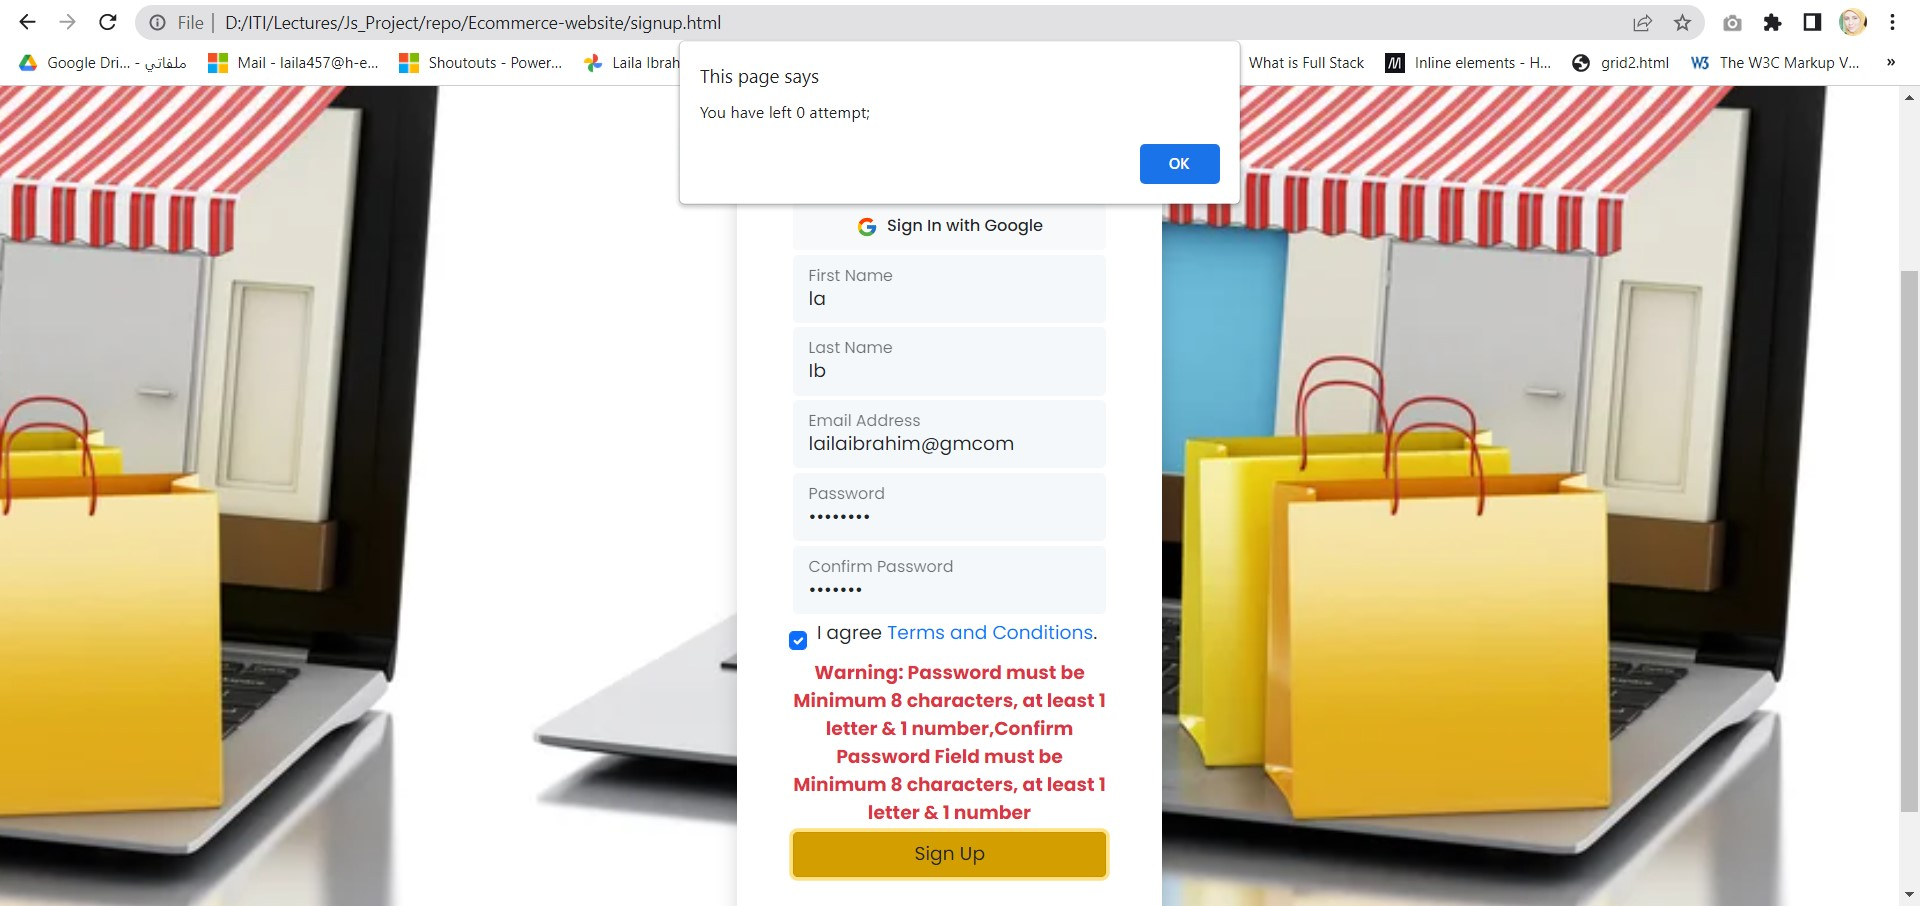
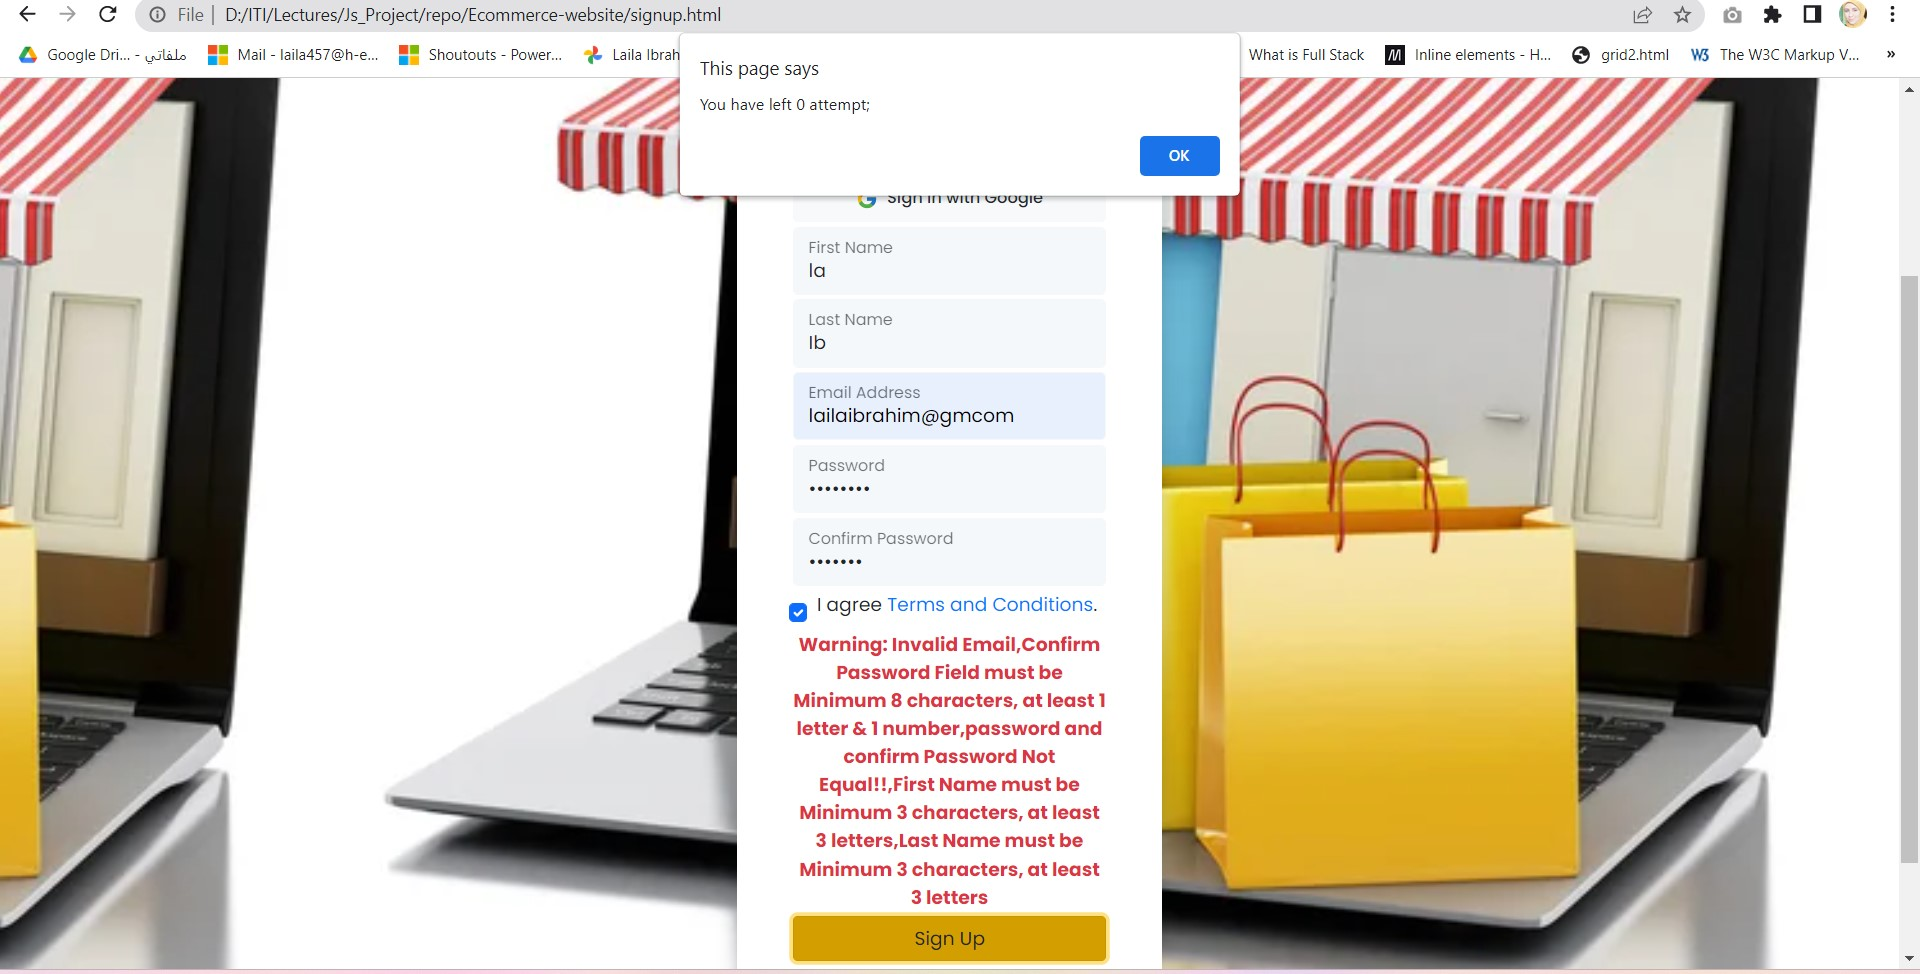
add small edits in Second Phase Of SignUp Form

diff --git a/validateForms.js b/validateForms.js
@@ -20,7 +20,7 @@ function validateLogin(e){
      Pass.disabled=true;
      var attempts=document.getElementById('attempts');
      attempts.style.display='block';
-    return true;
+    // return true;
     }
    
     if((Email.value.length== 0) && ( Pass.value.length== 0)){
@@ -109,7 +109,7 @@ if(errors.length > 0){
 
      var attempt_SignUp=document.getElementById('attempt_SignUp');
      attempt_SignUp.style.display='block';
-    return true;
+    // return true;
     }
    
     if((firstName.value.length== 0) && ( lastName.value.length== 0) && (email.value.length==0) && (password.value.length==0) &&(ConfirmPassword.value.length==0)){
@@ -146,7 +146,7 @@ if(errors.length > 0){
         }else{
             ptrn=/^([a-zA-Z]{3,})$/;
             if(! (ptrn.test(firstName.value))){
-               errorsSignUp.push('First Name must be Minimum 2 characters, at least 3 letters');
+               errorsSignUp.push('First Name must be Minimum 3 characters, at least 3 letters');
             }
         }
         if((lastName.value.length==0)){
@@ -154,7 +154,7 @@ if(errors.length > 0){
          }else{
              ptrn=/^([a-zA-Z]{3,})$/;
              if(! (ptrn.test(lastName.value))){
-                errorsSignUp.push('Last Name must be Minimum 2 characters, at least 3 letters');
+                errorsSignUp.push('Last Name must be Minimum 3 characters, at least 3 letters');
              }
          }
          if(check.value != 'on'){

diff --git a/README.md b/README.md
@@ -111,6 +111,9 @@ In general, an e-commerce website allows people to buy and sell physical goods, 
 
 5. and So ON The warning still will be shown Until user Input Valid Inputs :)
 
+## -------------------------------------------------------------------------------------------------------------------------------
+
+# Third Phase (Authenticate with Javascript) ^^:
 
 
 
